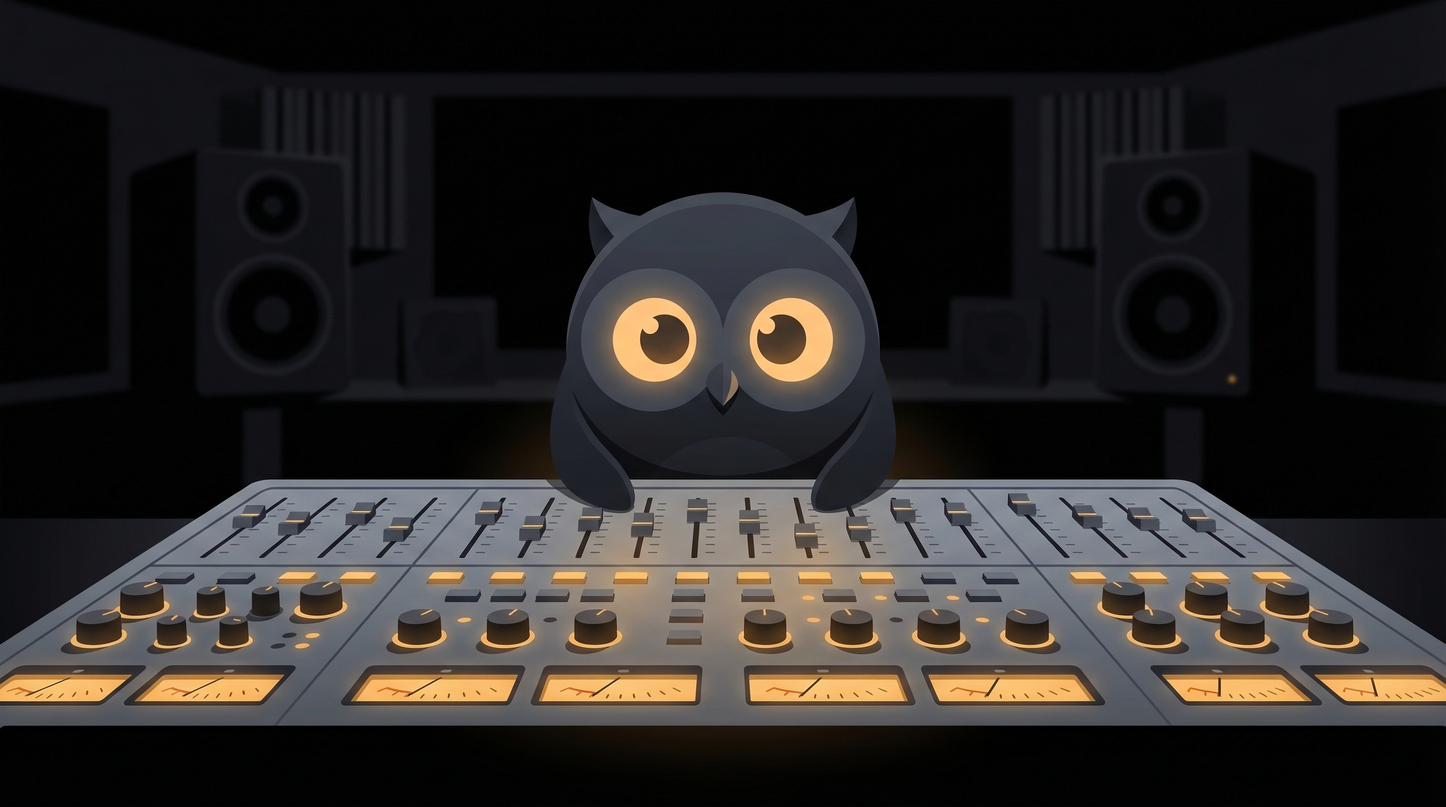
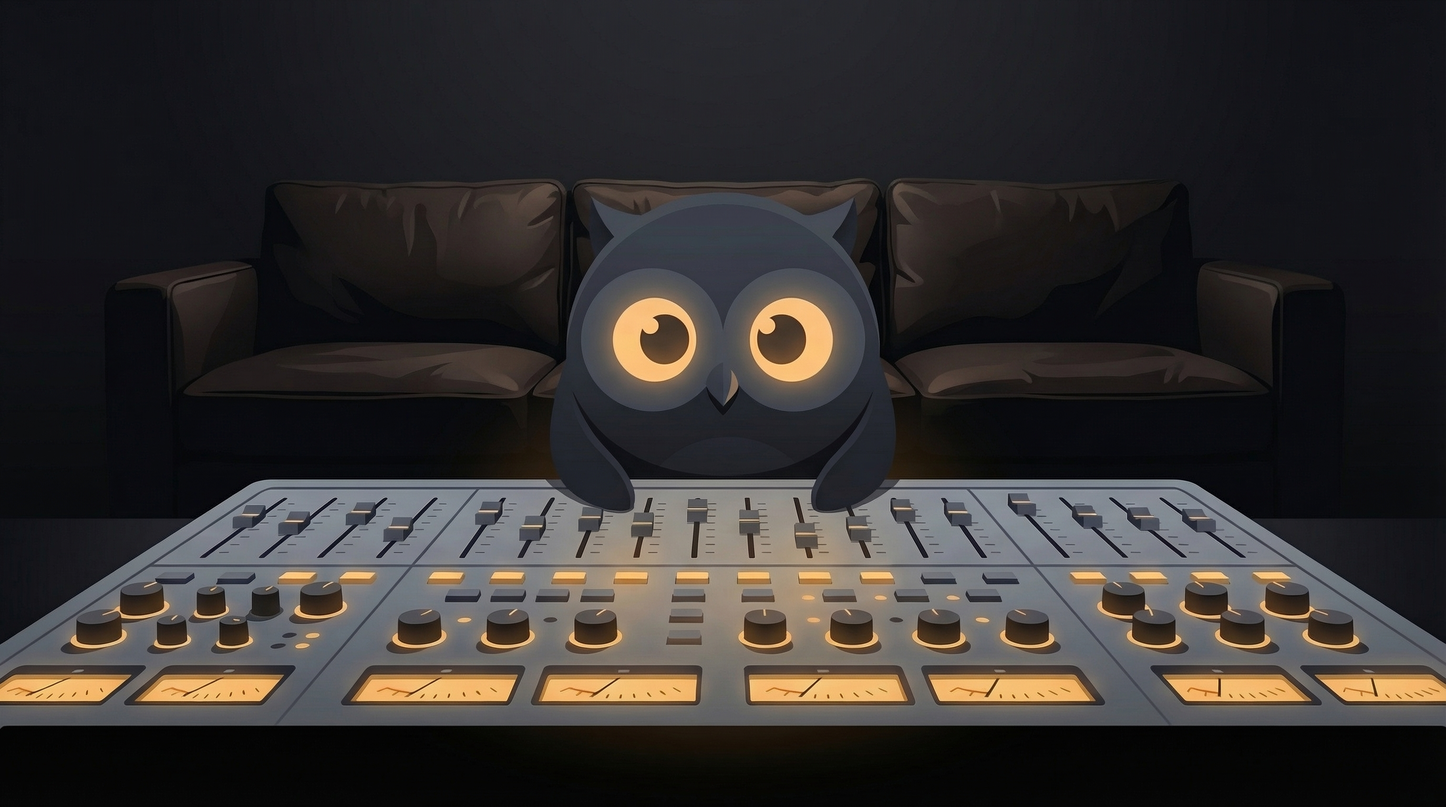
feat(dial): add hero background image with studio atmosphere
Replace plain black background with Hoo mixing console illustration
(with sofa). Semi-transparent overlay preserves text readability,
checkout panel gets frosted glass treatment.

diff --git a/app/dial/page.tsx b/app/dial/page.tsx
@@ -121,7 +121,7 @@ export default function DialPage() {
     <div className="min-h-screen bg-black text-white">
 
       {/* ─── Nav ──────────────────────────────────────────────────────── */}
-      <nav className="fixed top-0 left-0 right-0 z-50 bg-black/80 backdrop-blur-sm border-b border-zinc-900">
+      <nav className="fixed top-0 left-0 right-0 z-50 bg-black/60 backdrop-blur-md border-b border-white/5">
         <div className="max-w-6xl mx-auto px-6 h-14 flex items-center">
           <div className="flex items-center gap-2">
             <Image src="/hoo-animated.svg" alt="" width={28} height={28} />
@@ -134,15 +134,28 @@ export default function DialPage() {
 
       {/* ─── Main: Hook + Checkout ────────────────────────────────────── */}
       <main className="pt-14">
-        <div className="min-h-[calc(100vh-3.5rem)] flex items-center px-6 py-16 lg:py-0">
-          <div className="max-w-6xl mx-auto w-full grid lg:grid-cols-2 gap-12 lg:gap-20 items-center">
+        <div className="relative min-h-[calc(100vh-3.5rem)] flex items-center px-6 py-16 lg:py-0">
+          {/* Background image */}
+          <Image
+            src="/muedial-hoo-mixing-console.jpg"
+            alt=""
+            fill
+            className="object-cover object-[center_30%]"
+            priority
+          />
+          {/* Dark overlay — heavier on right (checkout side) */}
+          <div className="absolute inset-0 bg-gradient-to-r from-black/40 via-black/45 to-black/65" />
+          {/* Bottom fade to solid black (seamless transition to next section) */}
+          <div className="absolute inset-x-0 bottom-0 h-32 bg-gradient-to-t from-black to-transparent" />
+
+          <div className="relative z-10 max-w-6xl mx-auto w-full grid lg:grid-cols-2 gap-12 lg:gap-20 items-center">
 
             {/* Left: Hook */}
             <div>
               <h1 className="text-4xl sm:text-5xl lg:text-6xl font-bold tracking-tight mb-6">
                 {lp.heroTitle}
               </h1>
-              <p className="text-lg text-white/60 mb-16 max-w-md">
+              <p className="text-lg text-white/70 mb-16 max-w-md">
                 {lp.heroSub}
               </p>
               {/* ChatMockup — desktop only (mobile shows after checkout) */}
@@ -152,7 +165,7 @@ export default function DialPage() {
             </div>
 
             {/* Right: Checkout */}
-            <div className="lg:max-w-md lg:ml-auto">
+            <div className="lg:max-w-md lg:ml-auto bg-black/50 backdrop-blur-sm rounded-[var(--radius-lg)] p-6 lg:p-8 border border-white/5">
               {/* Mix options */}
               <div className="space-y-3 mb-4" role="radiogroup" aria-label={t.dial.checkout.step1}>
                 {MIX_OPTIONS.map((opt) => (
@@ -162,15 +175,15 @@ export default function DialPage() {
                     aria-pressed={mixType === opt.id}
                     className={`w-full text-left p-5 rounded-[var(--radius-lg)] border-2 transition-colors cursor-pointer ${
                       mixType === opt.id
-                        ? 'border-white bg-white/5'
-                        : 'border-zinc-800 hover:border-zinc-600'
+                        ? 'border-white bg-white/10'
+                        : 'border-white/10 hover:border-white/30'
                     }`}
                   >
                     <div className="flex items-baseline justify-between mb-1">
                       <span className="text-base font-medium text-white">{opt.name}</span>
                       <span className="text-2xl font-bold">${opt.price}</span>
                     </div>
-                    <div className="text-sm text-white/50">{opt.description}</div>
+                    <div className="text-sm text-white/60">{opt.description}</div>
                   </button>
                 ))}
               </div>
@@ -181,20 +194,20 @@ export default function DialPage() {
                 aria-pressed={!!masteringType}
                 className={`w-full text-left p-4 rounded-[var(--radius-lg)] border-2 transition-colors cursor-pointer mb-6 ${
                   masteringType
-                    ? 'border-white bg-white/5'
-                    : 'border-zinc-800 hover:border-zinc-600'
+                    ? 'border-white bg-white/10'
+                    : 'border-white/10 hover:border-white/30'
                 }`}
               >
                 <div className="flex items-baseline gap-3">
                   <span className="text-lg font-bold">+$5</span>
                   <span className="text-sm font-medium">{t.dial.checkout.masteringName}</span>
                 </div>
-                <div className="text-xs text-white/50 mt-1">{t.dial.checkout.masteringDesc}</div>
+                <div className="text-xs text-white/60 mt-1">{t.dial.checkout.masteringDesc}</div>
               </button>
 
               {/* Email (guest) or signed-in indicator */}
               {isSignedIn ? (
-                <div className="flex items-center gap-2 px-4 py-3 bg-zinc-900 border border-zinc-800 rounded-[var(--radius-md)] mb-4">
+                <div className="flex items-center gap-2 px-4 py-3 bg-black/30 border border-white/10 rounded-[var(--radius-md)] mb-4">
                   <span className="text-sm text-zinc-400">{t.dial.checkout.signedInAs}</span>
                   <span className="text-sm text-white">{clerkEmail}</span>
                 </div>
@@ -207,7 +220,7 @@ export default function DialPage() {
                     onChange={(e) => setEmail(e.target.value)}
                     placeholder={t.dial.checkout.email}
                     aria-label={t.dial.checkout.email}
-                    className="w-full px-4 py-3 bg-black border border-zinc-800 rounded-[var(--radius-md)] text-white placeholder-zinc-600 focus:outline-none focus:border-white transition-colors"
+                    className="w-full px-4 py-3 bg-black/50 border border-white/10 rounded-[var(--radius-md)] text-white placeholder-zinc-500 focus:outline-none focus:border-white/40 transition-colors"
                   />
                 </div>
               )}
